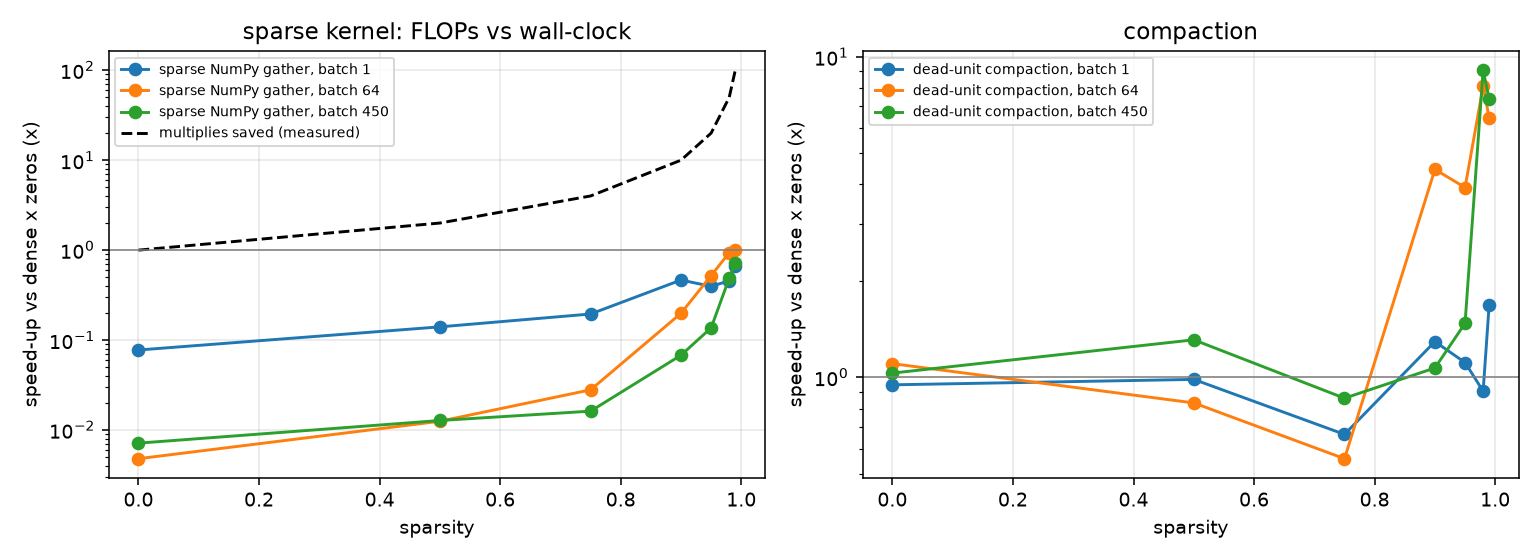
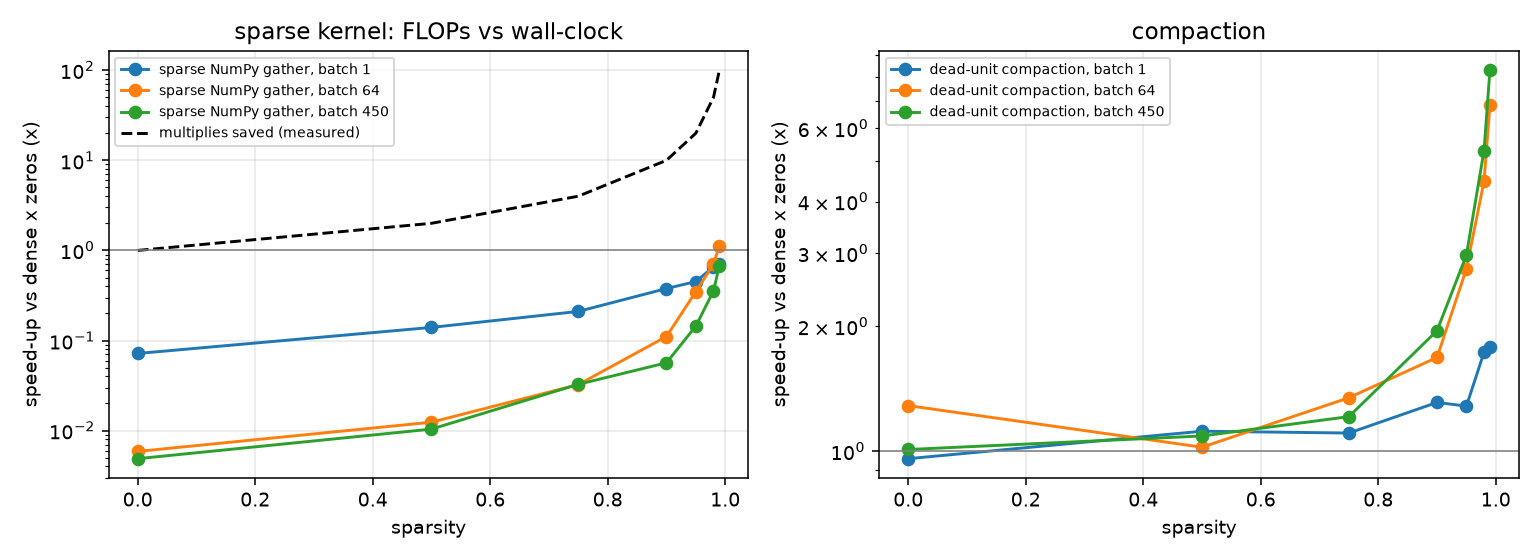
Ablations script + results (criteria, schedule, regrowth, state reset, scope, EMA, saliency-vs-true-loss)

diff --git a/train/run_ablations.py b/train/run_ablations.py
@@ -91,6 +91,30 @@ def saliency_vs_true_loss(seed=0, n_probe=400, epochs=25):
     return out
 
 
+def scope_robustness(seeds, sparsity=0.99):
+    """Does the criterion gap survive when the magnitude baseline is given the better
+    (global) layer allocation? Uniform per-layer sparsity forces the 1,280-weight output layer
+    down to ~13 weights at 99%, which could unfairly handicap magnitude pruning."""
+    crits, scopes = ("magnitude", "taylor", "fisher"), ("layer", "global")
+    jobs = [dict(criterion=c, scope=sc, sparsity=sparsity, seed=s) for c in crits for sc in scopes for s in seeds]
+    raw = run_many(jobs, desc="scope-robustness")
+    acc = {(c, sc): np.array([r["test_acc"] for r in raw if r["criterion"] == c and r["scope"] == sc]) for c in crits for sc in scopes}
+    lines = [f"Scope robustness at {sparsity:.0%} sparsity, {len(seeds)} seeds. Paired difference = criterion minus magnitude, same scope.\n",
+             "| scope | criterion | test acc (mean +/- sd) | diff vs magnitude (pp) | 95% CI (pp) | p | W/T/L |", "|---|---|---|---|---|---|---|"]
+    for sc in scopes:
+        for c in crits:
+            a = acc[(c, sc)]
+            if c == "magnitude":
+                lines.append(f"| {sc} | {c} | {a.mean():.4f} +/- {a.std(ddof=1):.4f} | - | - | - | - |")
+                continue
+            st = paired_stats(a - acc[("magnitude", sc)])
+            lines.append(f"| {sc} | {c} | {a.mean():.4f} +/- {a.std(ddof=1):.4f} | {100 * st['mean']:+.2f} | "
+                         f"[{100 * st['ci_lo']:+.2f}, {100 * st['ci_hi']:+.2f}] | {st['p_perm']:.4f} | "
+                         f"{st['wins']}/{st['ties']}/{st['losses']} |")
+    open(os.path.join(RESULTS, "scope_robustness.md"), "w").write("\n".join(lines) + "\n")
+    print("\n".join(lines))
+
+
 def main():
     ap = argparse.ArgumentParser()
     ap.add_argument("--sparsity", type=float, default=0.98)
@@ -127,6 +151,8 @@ def main():
                      f"{r['p_perm']:.3f} | {r['mean_event_churn']:.3f} |")
     open(os.path.join(RESULTS, "ablations.md"), "w").write("\n".join(lines) + "\n")
     print("\n".join(lines))
+
+    scope_robustness(seeds)
 
     sal = [saliency_vs_true_loss(seed=s) for s in range(3)]
     avg = {c: float(np.mean([x[c] for x in sal])) for c in ("magnitude", "taylor", "fisher", "taylor2")}

diff --git a/train/run_part4.py b/train/run_part4.py
@@ -239,6 +239,12 @@ def main():
     sparsities = [0.0, 0.5, 0.75, 0.9, 0.95, 0.98, 0.99] if not a.quick else [0.0, 0.9, 0.98]
     seeds = list(range(10)) if not a.quick else [0, 1, 2]
     t0 = time.time()
+    if a.cost_only:
+        cost = cost_study(sparsities, seed=0)
+        write_csv(os.path.join(RESULTS, "cost.csv"), cost)
+        json.dump(cost, open(os.path.join(RESULTS, "cost.json"), "w"), indent=1)
+        plot_cost(cost, os.path.join(RESULTS, "cost.png"))
+        return
 
     print("[4.1] sparsity sweep")
     raw = sweep(sparsities, seeds)

diff --git a/results/ablations.md b/results/ablations.md
@@ -1,0 +1,18 @@
+Ablations at 98% sparsity, 10 seeds (paired against the reference row).
+
+| variant | test acc | sd | diff vs ref (pp) | 95% CI (pp) | p | churn/event |
+|---|---|---|---|---|---|---|
+| reference (fisher, cubic, no regrow, per-layer, ema .9) | 0.9636 | 0.0105 | +0.00 | [+0.00, +0.00] | 1.000 | 0.056 |
+| criterion = magnitude | 0.9604 | 0.0134 | -0.31 | [-1.02, +0.40] | 0.467 | 0.056 |
+| criterion = taylor |w g| | 0.9687 | 0.0067 | +0.51 | [+0.02, +1.07] | 0.125 | 0.056 |
+| criterion = taylor2 (|wg| + 1/2 w^2 F) | 0.9651 | 0.0105 | +0.16 | [-0.29, +0.58] | 0.586 | 0.056 |
+| criterion = movement | 0.2349 | 0.0662 | -72.87 | [-76.89, -68.87] | 0.002 | 0.056 |
+| schedule = linear | 0.9607 | 0.0099 | -0.29 | [-0.73, +0.22] | 0.328 | 0.053 |
+| schedule = one-shot at end of window | 0.6318 | 0.0902 | -33.18 | [-38.47, -27.44] | 0.002 | 0.980 |
+| regrowth 10% | 0.9640 | 0.0070 | +0.04 | [-0.29, +0.42] | 0.908 | 0.144 |
+| regrowth 30% | 0.9651 | 0.0104 | +0.16 | [-0.24, +0.53] | 0.551 | 0.305 |
+| regrowth 30%, NO optimizer-state reset (the bug) | 0.9671 | 0.0087 | +0.36 | [-0.07, +0.76] | 0.180 | 0.305 |
+| scope = global ranking | 0.9682 | 0.0060 | +0.47 | [+0.07, +0.84] | 0.066 | 0.044 |
+| magnitude + global ranking | 0.9707 | 0.0088 | +0.71 | [+0.20, +1.16] | 0.035 | 0.046 |
+| ema 0.5 | 0.9647 | 0.0079 | +0.11 | [-0.29, +0.49] | 0.656 | 0.056 |
+| ema 0.99 | 0.9651 | 0.0108 | +0.16 | [-0.13, +0.49] | 0.500 | 0.056 |
